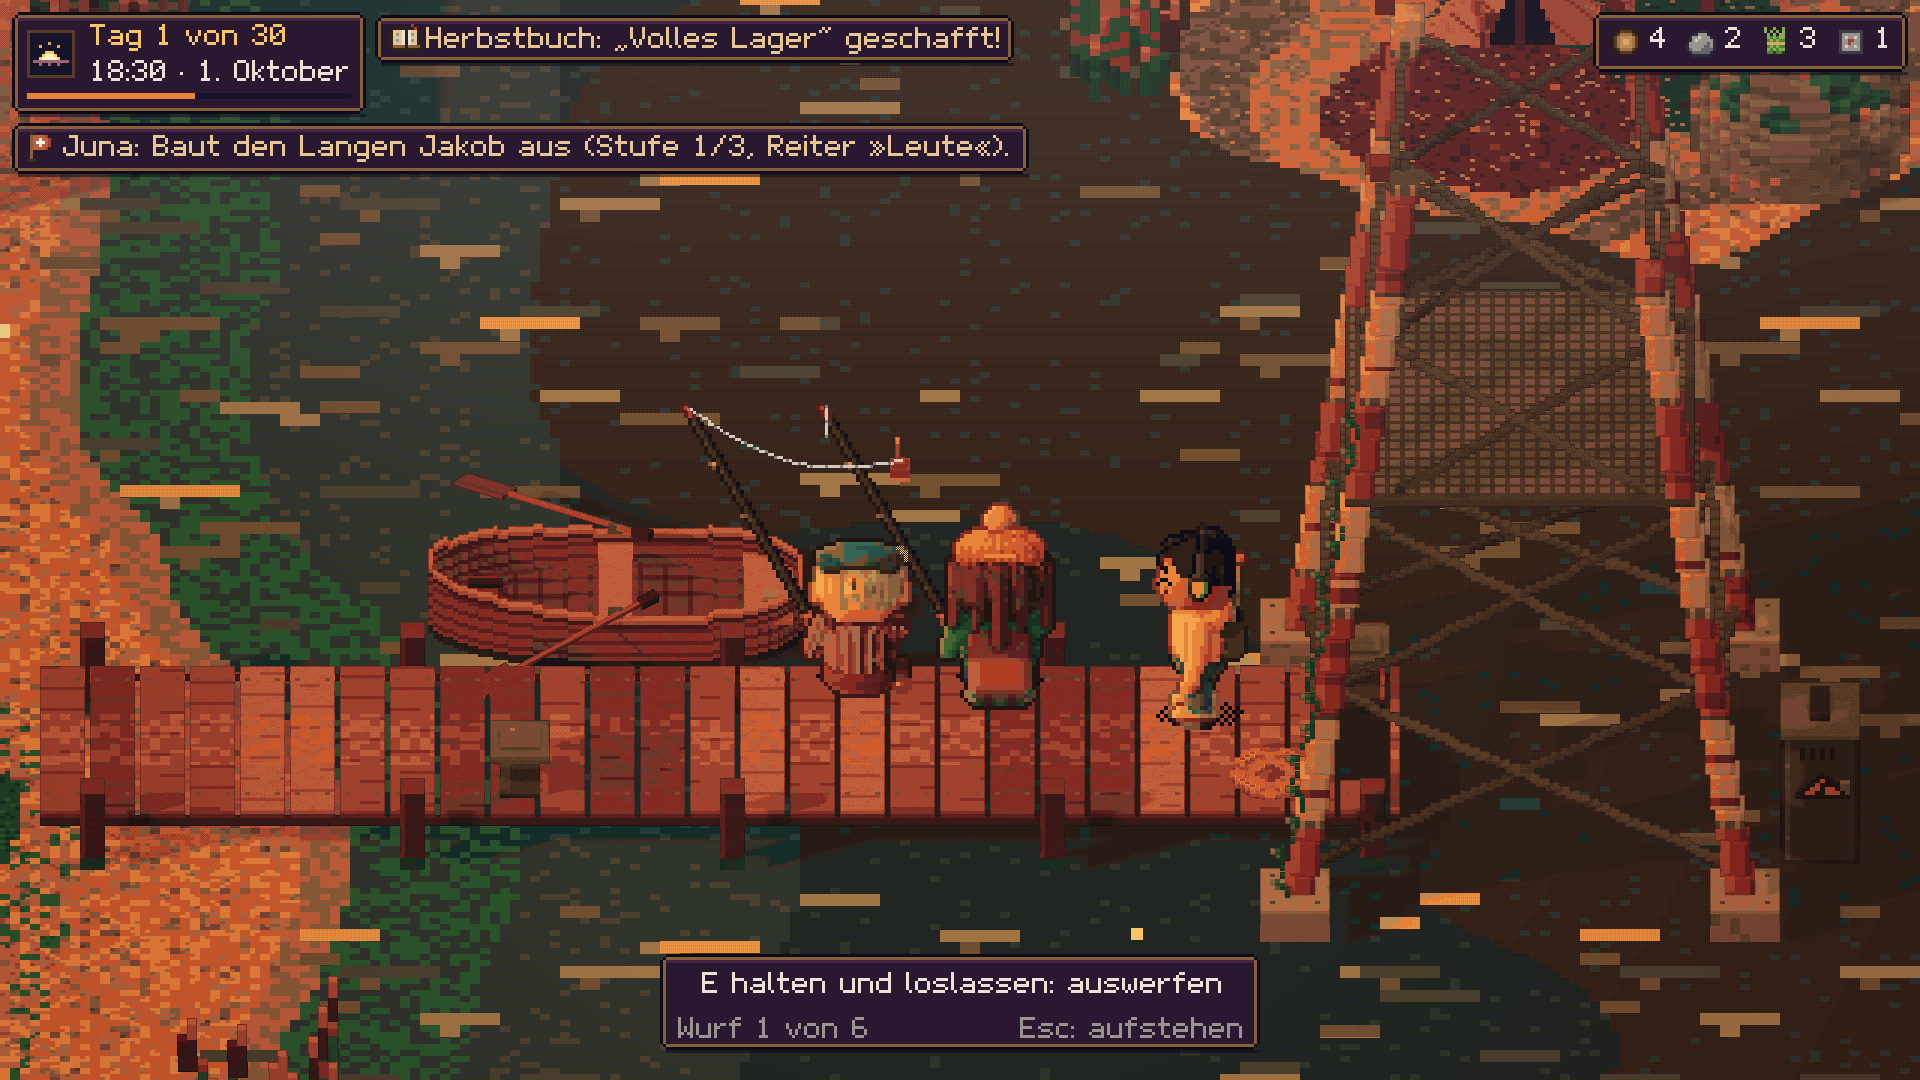
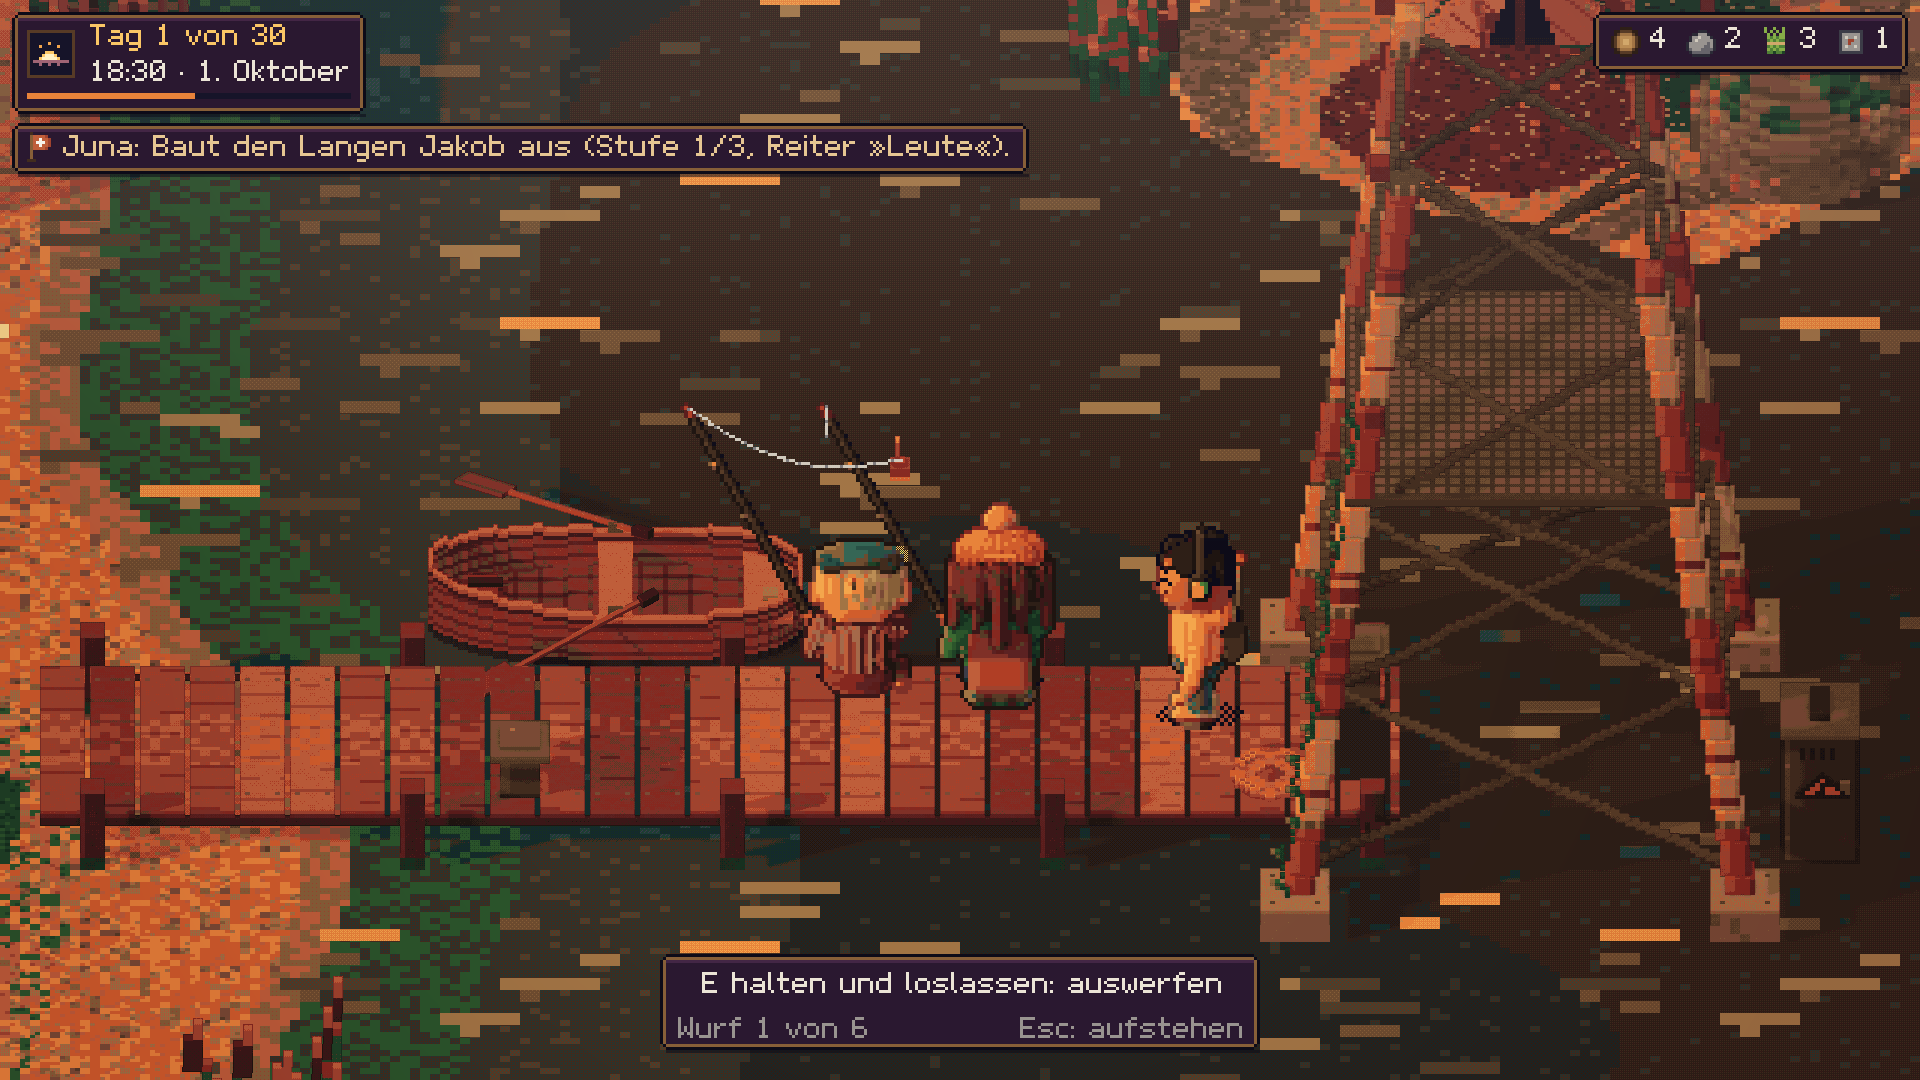
F7e: Die letzten Voxel – Reifenschaukel und am Boden liegen als Sprites
Auf der Reifenschaukel neigt sich das Bild in sieben gebackenen Stufen
(rollZ um den Fußpunkt, nur von vorn: dirs am Teil), wer nach der
Lagerglocke fällt, liegt als Sprite auf dem Rücken (lie, Augen zu). Der
Bäcker dreht die ganze Figur über turnFrame vor der Ansichtskippung.
Prüfung: menschen, nachbesserung, glocke bestanden.

Claude-Session: https://claude.ai/code/session_01TsPpnSS87ainXGtjm16X9R

diff --git a/src/entities/peopleView.js b/src/entities/peopleView.js
@@ -11,7 +11,8 @@ import { createSpriteMaterial, createSpriteSilhouetteMaterial } from '../render/
 import { bakePerson, bakeTool, encodeBake, partFrames, toolFrames, animsOf, PEOPLE_DIRS } from './peopleSprites.js';
 import { TEXEL } from '../render/spriteBaker.js';
 import { PEOPLE, MIKA_BASE, TOOLS } from './peopleKinds.js';
-import { darkerColor } from './peopleFigure.js';
+import { darkerColor, SWING_TILT } from './peopleFigure.js';
+import { LIE_LIFT } from './peopleSprites.js';
 import { lookSpec } from '../data/looks.js';
 
 const MAX_MIKA = 6;
@@ -42,7 +43,7 @@ const PEOPLE_NORMAL = 0.4;
  */
 const PEOPLE_NIGHT = { self: 0.5, neutral: 0.8, ramp: 1 };
 /** G7: In welcher Reihenfolge Mikas Teile gebacken werden, solange sie nicht im Bild sind (0 ist jetzt). */
-const MIKA_PRIO = { laterne: 0.5, base: 0.55, waffe: 1.2, sitz: 1.3, laterneWaffe: 1.4 };
+const MIKA_PRIO = { laterne: 0.5, base: 0.55, waffe: 1.2, sitz: 1.3, laterneWaffe: 1.4, schaukel: 1.5 };
 /** Ersatz, solange ein Teil noch fehlt: mit Laterne → ohne. */
 const FALLBACK = { laterne: 'base', laterneAktion: 'aktion', laterneWaffe: 'waffe' };
 
@@ -325,9 +326,14 @@ export class PeopleSprites {
       if (p.character.parts.eyelids?.visible) expr = 'blinzeln';
       return { part: 'boot', anim: 'rudern', k: Math.round(q * n) % n, expr, tool: null, seatY: p.seated.seatY ?? 0.28 };
     }
-    if (p.riding !== null) return null; // auf der Schaukel neigt sich die Figur – das bleibt Voxel
     let expr = p.faceShown || 'normal';
     if (p.character.parts.eyelids?.visible) expr = 'blinzeln';
+    // F7e: auf der Reifenschaukel – das Bild der nächsten Neigung (gebacken in sieben Stufen)
+    if (p.riding !== null) {
+      const n = animsOf('mika').schaukeln;
+      const k = Math.round(((Math.max(-1, Math.min(1, p.riding / SWING_TILT)) + 1) / 2) * (n - 1));
+      return { part: 'schaukel', anim: 'schaukeln', k, expr, tool: null, spin: 0 };
+    }
     // F7: an der Stegkante angeln – die Hüfte auf der Kante, die Beine hängen darunter (`ledge`)
     const fp = p.fishingPose;
     if (fp) {
@@ -419,7 +425,6 @@ export class PeopleSprites {
       if (n.sit > 0.5) return { part: 'base', anim: 'sitzen', k: Math.floor(time * 5) % 2, expr: 'normal' };
       return { part: 'base', anim: 'stehen', k: Math.floor(time * (n.target ? 4 : 6)) % 2, expr: 'normal' };
     }
-    if (n.lying) return null; // nach der Lagerglocke am Boden: bleibt Voxel
     const p = n.model.parts;
     // F7: was die Figur in der rechten Hand hält (Angel, Spule, Waffe) – als eigenes Bild
     const heldId = p.held ? Object.keys(p.held).find((key) => p.held[key].visible) : null;
@@ -429,7 +434,12 @@ export class PeopleSprites {
     let anim = 'stehen';
     let k = Math.floor(time * 1.1 + n.x) % 2;
     const g = n.gestures[0];
-    if (n.fishing) {
+    if (n.lying) {
+      // F7e: nach der Lagerglocke am Boden (ohne Waffe – die liegt im Laub)
+      const kind_ = PEOPLE[n.id];
+      if (!Object.values(kind_.parts).some((s) => s.anims.includes('liegen'))) return null;
+      return { part: Object.entries(kind_.parts).find(([, s]) => s.anims.includes('liegen'))[0], anim: 'liegen', k: 0, expr: kind_.expressions?.includes('blinzeln') ? 'blinzeln' : kind_.expressions?.[0] || 'normal', tool: null, lift: LIE_LIFT };
+    } else if (n.fishing) {
       // F7: an der Stegkante mit der Angel (wartet still)
       anim = 'angeln';
       k = 0;
@@ -628,7 +638,8 @@ export class PeopleSprites {
             const seated = !n.dog && n.seatY !== null && n.seatY !== undefined;
             const ground = root.position.y - (seated ? (n.seatY - n.model.hip) * n.sit : 0);
             // F7: an der Stegkante liegt die Hüfte des Bildes auf seinem Fußpunkt
-            const y = ground + (seated ? (st.ledge ? n.seatY * n.sit : Math.max(0, (n.seatY - SIT_HIP) * n.sit)) : 0);
+            // F7e: Liegende hebt die Voxel-Figur 12 cm an – das Bild trägt die Höhe selbst
+            const y = ground + (seated ? (st.ledge ? n.seatY * n.sit : Math.max(0, (n.seatY - SIT_HIP) * n.sit)) : 0) - (st.lift || 0);
             shown = this.drawFigure(this.layers.leute, n.id, PEOPLE[n.id].spec || {}, 'fest', st, dir, n.x, y, n.z, 0);
             if (shown) this.lastPeople[n.id] = { ...st, dir, ...shown };
           }

diff --git a/src/entities/peopleSprites.js b/src/entities/peopleSprites.js
@@ -40,7 +40,8 @@ export function partFrames(id, part) {
   const spec = kind.parts[part];
   const anims = animsOf(id);
   const list = [];
-  for (let d = 0; d < PEOPLE_DIRS; d++) for (const anim of spec.anims) for (let k = 0; k < anims[anim]; k++) list.push({ d, anim, k });
+  const dirs = spec.dirs || [...Array(PEOPLE_DIRS).keys()]; // F7e: die Schaukel nur von vorn
+  for (const d of dirs) for (const anim of spec.anims) for (let k = 0; k < anims[anim]; k++) list.push({ d, anim, k });
   return list;
 }
 
@@ -56,8 +57,17 @@ export function tiltFrame(ctx, angle, pivot = [0, 0, 0]) {
   const sa = Math.sin(angle);
   const turn = (v) => [v[0], v[1] * ca + v[2] * sa, -v[1] * sa + v[2] * ca];
   const back = (v) => [v[0], v[1] * ca - v[2] * sa, v[1] * sa + v[2] * ca];
-  const at = (p) => add(turn(sub(p, pivot)), pivot);
-  const from = (p) => add(back(sub(p, pivot)), pivot);
+  return turnFrame(ctx, turn, back, pivot);
+}
+
+/**
+ * F7e: Die ganze Figur drehen – `turn` dreht einen Vektor, `back` zurück, um `pivot`, danach um
+ * `shift` verschoben. `marks` dreht auch die benannten Punkte mit (bei der Ansichtskippung nicht:
+ * deren Anker rechnen über `ctx.view`). Gibt die Abbildung für Punkte zurück.
+ */
+function turnFrame(ctx, turn, back, pivot = [0, 0, 0], { shift = [0, 0, 0], marks = false } = {}) {
+  const at = (p) => add(add(turn(sub(p, pivot)), pivot), shift);
+  const from = (p) => add(back(sub(sub(p, shift), pivot)), pivot);
   for (const s of ctx.shapes) {
     if (s.kind === 'capsule') {
       s.a = at(s.a);
@@ -80,7 +90,21 @@ export function tiltFrame(ctx, angle, pivot = [0, 0, 0]) {
   for (const st of ctx.stamps || []) st.at = at(st.at);
   if (ctx.face?.eyes) mapFace(ctx.face, at, turn);
   else if (ctx.face) ctx.face.at = at(ctx.face.at);
+  if (marks) for (const [key, m] of Object.entries(ctx.marks)) ctx.marks[key] = Array.isArray(m[0]) ? m.map(at) : at(m);
   return at;
+}
+
+/** F7e: auf der Schaukel – um die z-Achse der Welt durch den Fußpunkt (wie `rotation.z` der Voxel-Figur). */
+function rollFrame(ctx, angle) {
+  const c = Math.cos(angle);
+  const s = Math.sin(angle);
+  return turnFrame(ctx, (v) => [v[0] * c - v[1] * s, v[0] * s + v[1] * c, v[2]], (v) => [v[0] * c + v[1] * s, -v[0] * s + v[1] * c, v[2]], [0, 0, 0], { marks: true });
+}
+
+/** F7e: am Boden liegen – um −90° um die x-Achse (der Kopf nach Norden) und 12 cm angehoben (npcs.sync). */
+export const LIE_LIFT = 0.12;
+function lieFrame(ctx) {
+  return turnFrame(ctx, (v) => [v[0], v[2], -v[1]], (v) => [v[0], -v[2], v[1]], [0, 0, 0], { shift: [0, LIE_LIFT, 0], marks: true });
 }
 
 /**
@@ -199,6 +223,9 @@ export function personShapes(id, spec, part, d, anim, k) {
     if (ctx.face?.eyes) mapFace(ctx.face, (p) => p.map((v) => v * size));
     else if (ctx.face) ctx.face.at = ctx.face.at.map((v) => v * size);
   }
+  // F7e: die ganze Figur neigt sich mit der Schaukel bzw. liegt am Boden
+  if (pose.rollZ) rollFrame(ctx, pose.rollZ);
+  if (pose.lie) lieFrame(ctx);
   // F5: frontaler backen; die Anker liegen im gekippten Bild, Richtung und Seite des Werkzeugs
   // rechnen weiter mit der ungekippten Figur
   ctx.view = tiltFrame(ctx, VIEW_TILT);

diff --git a/src/entities/peopleFigure.js b/src/entities/peopleFigure.js
@@ -178,6 +178,9 @@ export const PERSON_ANIMS = {
   drachen: 2,
   tick: 2,
   gucken: 2,
+  // F7e: die letzten Voxel – auf der Reifenschaukel (Neigung in sieben Stufen) und am Boden liegen
+  schaukeln: 7,
+  liegen: 1,
   muetze: 1,
   reiben: 2,
   daumen: 1,
@@ -189,6 +192,12 @@ export const PERSON_ANIMS = {
 function basePose() {
   return { legL: 0, legR: 0, kneeL: 0.05, kneeR: 0.05, armL: 0.06, armR: 0.06, elbow: 0.16, bob: 0, lean: 0, head: 0, nod: 0, sink: 0, spread: 0.09, roll: 0, extra: 0 };
 }
+
+/**
+ * F7e: So weit neigt sich die Schaukel (game.js `SWING.amp`) – die Bilder von »schaukeln« decken
+ * −SWING_TILT … +SWING_TILT in gleichen Stufen ab.
+ */
+export const SWING_TILT = 0.42;
 
 /** F7: Beine im Sitzen (wie »sitzen«): die Oberschenkel nach vorn, die Füße hängen. */
 const SIT_LEGS = { legL: 1.5, legR: 1.42, kneeL: 1.42, kneeR: 1.32 };
@@ -325,6 +334,14 @@ export function posePerson(anim, k, n, { lantern = false, gait = 'gehen', tell =
     else if (tell === 'summen') Object.assign(p, { reachR: [0.07, -0.3, 0.25], head: 0.17 * w, nod: 0.04 });
     else if (tell === 'brille') Object.assign(p, { reachR: [0.1, 0.02, 0.28], nod: 0.14 });
     else if (tell === 'pfeife') Object.assign(p, { reachR: [0.16, -0.15 - 0.02 * k, 0.36], nod: -0.04 - 0.06 * k });
+  } else if (anim === 'schaukeln') {
+    // F7e: auf dem Reifen stehen, beide Hände oben an den Seilen; das ganze Bild neigt sich mit der
+    // Schaukel (`rollZ` um den Fußpunkt, wie die Voxel-Figur um ihren Ursprung)
+    Object.assign(p, { kneeL: 0.04, kneeR: 0.04, armL: 2.8, armR: 2.8, elbowL: 0.12, elbowR: 0.12, spreadL: -0.16, spreadR: -0.16, nod: -0.08, rollZ: -SWING_TILT + (2 * SWING_TILT * k) / Math.max(1, n - 1) });
+  } else if (anim === 'liegen') {
+    // F7e: nach der Lagerglocke am Boden – auf dem Rücken, der Kopf nach Norden (`lie`: wie die
+    // Voxel-Figur um die x-Achse gekippt und ein wenig angehoben), die Arme seitlich
+    Object.assign(p, { armL: 0.35, armR: 0.3, spreadL: 0.4, spreadR: 0.45, elbowL: 0.25, elbowR: 0.3, legL: 0.12, legR: -0.06, kneeL: 0.2, kneeR: 0.1, nod: 0.1, lie: true });
   } else if (anim === 'gucken') {
     // F7: dem Drachen nachschauen – der Kopf im Nacken, die Arme locker
     Object.assign(p, { nod: -0.34, lean: -0.05, spread: 0.18, armL: 0.08, armR: 0.1 - 0.04 * k, bob: -0.005 * k });

diff --git a/src/entities/peopleKinds.js b/src/entities/peopleKinds.js
@@ -126,6 +126,7 @@ const mika = {
     waffe: { anims: ['schiessen', 'anschlag', 'pfiff', 'wirbel', 'drachen'] },
     laterneWaffe: { anims: ['schiessen', 'anschlag', 'pfiff', 'wirbel'], lantern: true },
     sitz: { anims: ['karten', 'angeln'] },
+    schaukel: { anims: ['schaukeln'], dirs: [0] }, // F7e: auf der Reifenschaukel, nur von vorn
   },
   /** Stoffe aus dem Aussehen (spec = lookSpec(MIKA_BASE, look)). */
   materials(s) {
@@ -335,13 +336,13 @@ const knit = (p) => (Math.floor((p[0] + p[2]) * 28 + 40) & 1 ? -1 : 0);
  * Die Teile der Leute: stehen, gehen, winken, sitzen. F7: dazu die seltenen Posen – gebacken erst,
  * wenn sie gebraucht werden (bis dahin Voxel): am Kartentisch mit den Karten und dem eigenen Tick
  * (`tell`, Menschenkunde), an der Stegkante mit der Angel, mit einer Waffe auf dem Übungsplatz und
- * nach der Lagerglocke.
+ * nach der Lagerglocke (dort auch am Boden liegend).
  */
 const FOLK_PARTS = {
   base: { anims: ['stehen', 'gehen', 'winken', 'sitzen'] },
   karten: { anims: ['karten', 'tick'] },
   angeln: { anims: ['angeln'] },
-  waffe: { anims: ['schiessen', 'anschlag', 'schwung', 'daumen'] },
+  waffe: { anims: ['schiessen', 'anschlag', 'schwung', 'daumen', 'liegen'] }, // F7e: wer nach der Lagerglocke fällt, liegt
 };
 /** F7: Pim und Lu – dazu den Drachen halten und ihm nachschauen. */
 const KID_PARTS = { base: FOLK_PARTS.base, drachen: { anims: ['drachen', 'gucken'] } };

diff --git a/CLAUDE.md b/CLAUDE.md
@@ -243,12 +243,16 @@ gilt bis auf Weiteres:
     Lage, Stufe, vorn/hinten). Gebacken über dem Boden (`TOOL_LIFT`), sonst schnitte die Erde sie ab.
   - Die Voxel-Figuren laufen unsichtbar mit (Laternenlicht, Anker, Zustand); versteckt werden nur
     die Kinder ihres Wurzelknotens (`root.visible` sagt bei den Leuten, ob sie da sind). Voxel
-    bleiben nur, was noch nicht gebacken ist, die Reifenschaukel und wer am Boden liegt (F7).
+    bleibt nur, was noch nicht gebacken ist (F7).
   - **Alle Posen als Sprites (F7, Nr. 228):**
-    - Mika hat dazu die Teile `waffe` (schießen, Anschlag, Pfiff, Wirbel, Drachen), `laterneWaffe`
-      und `sitz` (Kartentisch, Angeln) – alle vorab im Hintergrund gebacken (`MIKA_PRIO`). Die Leute
-      haben `karten` (Karten und ihr Tick `tell`), `angeln` und `waffe`, Pim und Lu `drachen`
-      (`KID_PARTS`); diese Teile backen erst, wenn sie gebraucht werden.
+    - Mika hat dazu die Teile `waffe` (schießen, Anschlag, Pfiff, Wirbel, Drachen), `laterneWaffe`,
+      `sitz` (Kartentisch, Angeln) und `schaukel` (nur von vorn: `dirs` am Teil) – alle vorab im
+      Hintergrund gebacken (`MIKA_PRIO`). Die Leute haben `karten` (Karten und ihr Tick `tell`),
+      `angeln` und `waffe` (mit `liegen`), Pim und Lu `drachen` (`KID_PARTS`); diese Teile backen
+      erst, wenn sie gebraucht werden.
+    - Die ganze Figur dreht der Bäcker vor der Ansichtskippung (`turnFrame`): `rollZ` neigt sie um den
+      Fußpunkt (Schaukel, sieben Stufen bis `SWING_TILT`), `lie` legt sie auf den Rücken, den Kopf nach
+      Norden und `LIE_LIFT` angehoben (wie `npcs.sync`).
     - Hände treffen ein Ziel über zwei Knochen: `reachL`/`reachR` in der Pose (Figurkoordinaten um
       die Kopfmitte, `reachArm` in `spriteFigure.js`) – so liegen Hand an Mütze, Brille, Mund und
       Pfeife und die Karten vor der Brust (`cardFan` setzt `personShapes` für jeden).
@@ -1516,8 +1520,9 @@ Grundprinzipien:
    Rücken und beim Schwung als eigenes Bild in der Hand, ein Treffer zeigt »Aua«, die Laterne ihren
    Teil, seit F7 sitzt Mika am Tisch als Sprite mit Karten, angelt an der Stegkante (die Schnur hängt
    an der Spitze im Bild), schießt mit Rückstoß, legt die Flinte an, pfeift, wirbelt (das Bild dreht
-   sich mit) und hält Pims Drachen, Bert hat am Kartentisch seinen Tick, Hilde angelt mit, Juna
-   schießt im Anschlag (Bilder menschen-karten, menschen-angeln), im Ruderboot rudert Mika als Sprite
+   sich mit), hält Pims Drachen und neigt sich auf der Reifenschaukel, Bert hat am Kartentisch seinen
+   Tick, Hilde angelt mit, Juna schießt im Anschlag und liegt danach am Boden (Bilder menschen-karten,
+   menschen-angeln), im Ruderboot rudert Mika als Sprite
    im Takt der Riemen (N12), Hilde, Bert, Juna, Yusuf und Knopf stehen als Sprites im
    Hof und Hilde lächelt, wenn Mika dabeisteht, seit F5 ist Mikas Gesicht von vorn fast so groß
    wie die Mütze und die Augen sitzen weit oben, seit F6f liegen nah und weit alle Farbwechsel in

diff --git a/PROGRESS.md b/PROGRESS.md
@@ -29,11 +29,13 @@ fiel dem Auftraggeber im Intro auf (»das intro ist die figur noch 3d!«).
   Seite); die Karten verschwanden rot auf Berts Karohemd (jetzt braun mit weißem Rand); am Tisch saß
   Bert optisch auf der Platte (kleinerer Tiefenversatz am Tisch), dadurch rieb er sich die Hände unter
   der Tischkante (Karten und Hände eine Handbreit höher).
-- **Voxel bleiben:** die Reifenschaukel (die Figur neigt sich mit) und wer nach der Lagerglocke am
-  Boden liegt (Nr. 228).
+- **F7e – die letzten Voxel:** Auf der Reifenschaukel neigt sich das Bild mit (sieben gebackene
+  Stufen, `rollZ`, nur von vorn), und wer nach der Lagerglocke fällt, liegt als Sprite auf dem Rücken
+  (`lie`, Augen zu). Voxel bleibt nur, was noch nicht gebacken ist (Nr. 228).
 - **Prüfung:** Abschnitt `menschen` – Mika in allen seltenen Posen als Sprite (die Schnur hängt an der
-  Spitze im Bild, der Wirbel dreht durch sechs Richtungen), Bert am Tisch mit Tick, Hilde angelt mit,
-  Juna schießt im Anschlag (Bilder menschen-karten, menschen-angeln). Ohne Browser:
+  Spitze im Bild, der Wirbel dreht durch sechs Richtungen, die Schaukel neigt das Bild), Bert am Tisch
+  mit Tick, Hilde angelt mit, Juna schießt im Anschlag und liegt danach am Boden (Bilder
+  menschen-karten, menschen-angeln). Ohne Browser:
   `node tools/menschen-bogen.mjs` zeigt die neuen Posen mit ihrem Werkzeug.
 
 ---

diff --git a/OFFENE-FRAGEN.md b/OFFENE-FRAGEN.md
@@ -2894,9 +2894,9 @@ zurückzunehmen.
 **Entscheidung:** Sprites werden alle Posen, in denen man die Figur länger ansieht oder die etwas
 erzählen: Mika am Kartentisch (mit Karten), an der Stegkante mit der Angel, mit Pistole und langer
 Waffe, beim Pfiff, im Wirbel und mit Pims Drachen; die Leute am Kartentisch (mit ihrem Tick), beim
-Angeln, mit der Waffe (Übungsplatz, Lagerglocke) und Pim und Lu mit dem Drachen. Voxel bleiben nur die
-Reifenschaukel (die Figur neigt sich mit dem Seil – ein Sprite kann nicht kippen) und wer nach der
-Lagerglocke am Boden liegt (selten, nur kurz).
+Angeln, mit der Waffe (Übungsplatz, Lagerglocke) und Pim und Lu mit dem Drachen. Nachgezogen (F7e):
+auch die Reifenschaukel (die Neigung ist in sieben Stufen gebacken – ein Sprite selbst kann nicht
+kippen) und wer nach der Lagerglocke am Boden liegt. Voxel bleibt nur, was noch nicht gebacken ist.
 
 **Wie:** Hände treffen ihr Ziel über zwei Knochen (`reachL`/`reachR` um die Kopfmitte – Mütze,
 Brille, Mund, Pfeife, Karten vor der Brust); die Pose sagt, wie das Werkzeug liegt (`toolPhi`,

diff --git a/DESIGN.md b/DESIGN.md
@@ -2162,8 +2162,8 @@ Zeit der Welt dafür.«
   seinem Tick auch im Bild – Bert legt die Karten ab und reibt sich die Hände), angeln an der
   Stegkante (von hinten nur der Rücken, die Rute schräg zur Seite, die Schnur hängt an ihrer Spitze),
   schießen mit Rückstoß oder legen die Flinte an, pfeifen, wirbeln mit der Waffe herum und halten Pims
-  Drachen an der Spule; Pim und Lu schauen ihm nach. Voxel bleiben nur die Reifenschaukel und wer nach
-  der Lagerglocke am Boden liegt.
+  Drachen an der Spule; Pim und Lu schauen ihm nach. Auch auf der Reifenschaukel (die Neigung in
+  sieben gebackenen Stufen) und am Boden nach der Lagerglocke sind es Sprites (F7e).
 
 #### G7 – Die Ankunft, glaubhaft ✓
 
